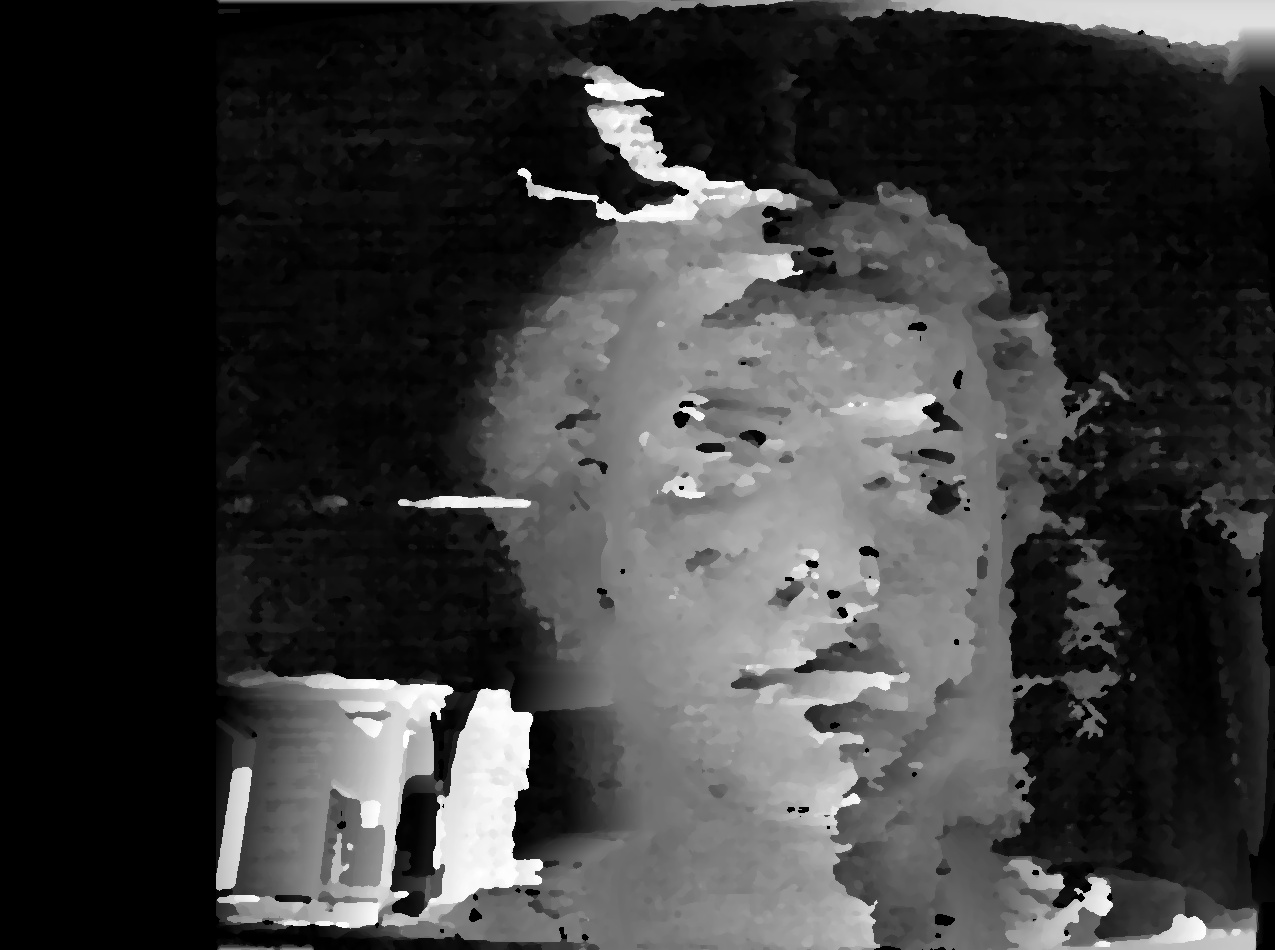
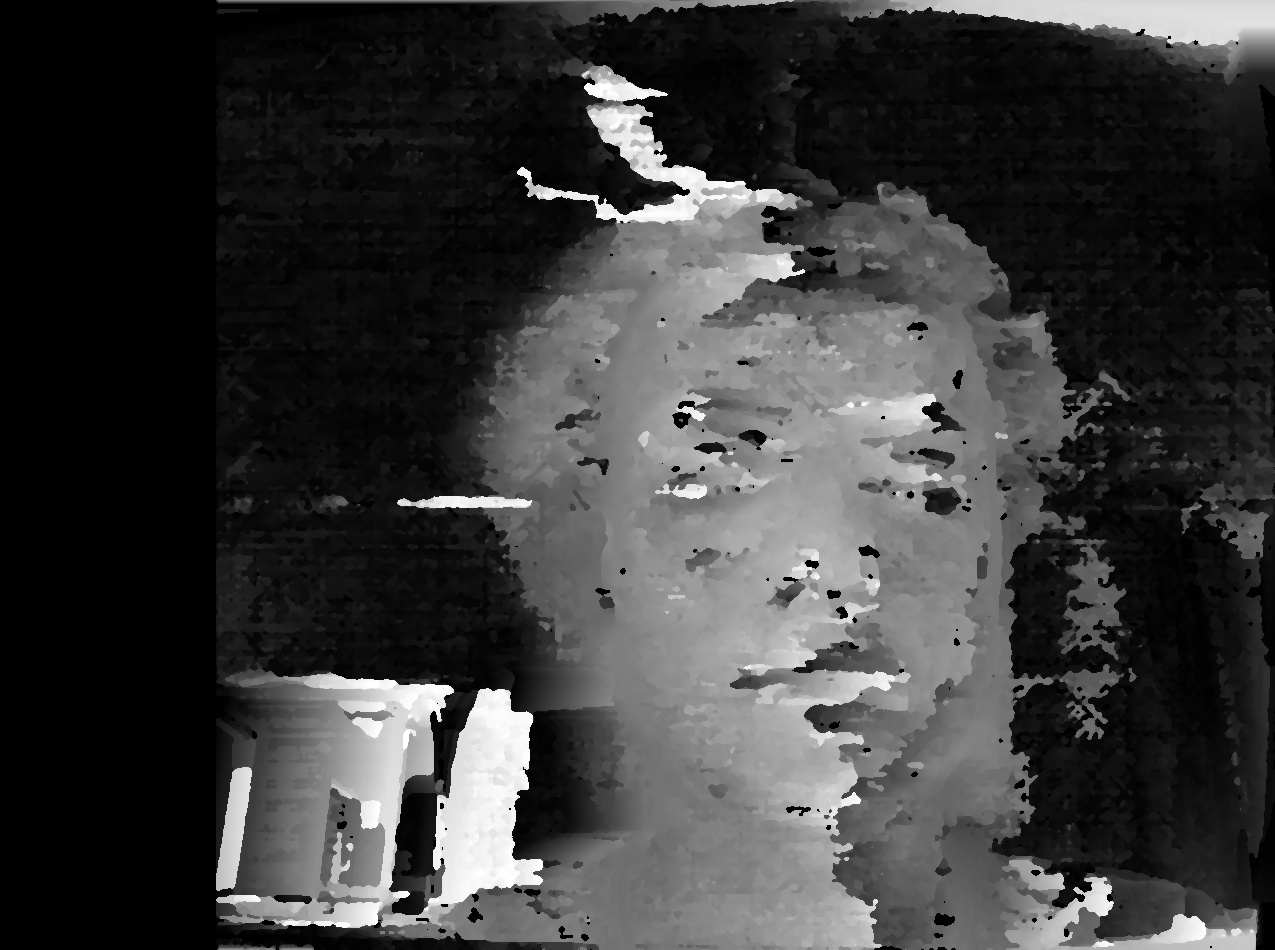
added eye landmarks and wrote distance on image

diff --git a/EyesDetection.py b/EyesDetection.py
@@ -1,0 +1,62 @@
+import mediapipe as mp
+import cv2 as cv
+
+# https://raw.githubusercontent.com/google/mediapipe/a908d668c730da128dfa8d9f6bd25d519d006692/mediapipe/modules/face_geometry/data/canonical_face_model_uv_visualization.png
+rightEyeIDLandmarks = [398, 384, 385, 386, 387, 388, 466, 763, 249, 390, 373, 374, 380, 381, 382, 362]
+leftEyeIDLandmarks = [33, 246, 161, 160, 159, 158, 157, 173, 133, 155, 154, 153, 145, 144, 163, 7]
+
+rightEyePixelLEFT = []
+leftEyePixelLEFT = []
+
+rightEyePixelRIGHT = []
+leftEyePixelRIGHT = []
+
+def eyesDetection(img):
+    
+    imgL = img[:, :int(len(img[0])/2)]
+    imgR = img[:, int(len(img[0])/2):]
+
+    # LEFT IMAGE
+    ih, iw, ic = imgL.shape
+    print(imgL.shape)
+    faceMeshSolution = mp.solutions.face_mesh
+    faceMesh = faceMeshSolution.FaceMesh(max_num_faces=1) # 2 faces because of 2 cameras..
+    results = faceMesh.process(imgL)
+
+    if results.multi_face_landmarks:
+        for faceLandmarks in results.multi_face_landmarks:
+            for id, landmark in enumerate(faceLandmarks.landmark):
+
+                if id in rightEyeIDLandmarks:
+                    x, y = int(landmark.x * iw), int(landmark.y * ih)
+                    rightEyePixelLEFT.append((x, y))
+                    cv.circle(imgL, (x, y), radius=1, color=(255, 255, 255), thickness=3)
+
+
+                if id in leftEyeIDLandmarks:
+                    x, y= int(landmark.x * iw), int(landmark.y * ih)
+                    leftEyePixelLEFT.append((x, y))
+                    cv.circle(imgL, (x, y), radius=1, color=(255, 255, 255), thickness=3)
+
+    # LEFT IMAGE
+    ih, iw, ic = imgR.shape
+    faceMeshSolution = mp.solutions.face_mesh
+    faceMesh = faceMeshSolution.FaceMesh(max_num_faces=1) # 2 faces because of 2 cameras..
+    results = faceMesh.process(imgR)
+
+    if results.multi_face_landmarks:
+        for faceLandmarks in results.multi_face_landmarks:
+            for id, landmark in enumerate(faceLandmarks.landmark):
+
+                if id in rightEyeIDLandmarks:
+                    x, y = int(landmark.x * iw), int(landmark.y * ih)
+                    rightEyePixelRIGHT.append((x, y))
+                    cv.circle(imgR, (x, y), radius=1, color=(255, 255, 255), thickness=3)
+
+
+                if id in leftEyeIDLandmarks:
+                    x, y= int(landmark.x * iw), int(landmark.y * ih)
+                    leftEyePixelRIGHT.append((x, y))
+                    cv.circle(imgR, (x, y), radius=1, color=(255, 255, 255), thickness=3)
+
+    return leftEyePixelLEFT, rightEyePixelLEFT, leftEyePixelRIGHT, rightEyePixelRIGHT

diff --git a/Depth.py b/Depth.py
@@ -2,7 +2,7 @@ import numpy as np
 import cv2 as cv
 
 
-def CalculateDisparity(img, intrinsicL,cameraMatrixL, intrinsicR, cameraMatrixR, distL, distR):
+def CalculateDisparity(img, intrinsicL, cameraMatrixL, intrinsicR, cameraMatrixR, distL, distR, leftEyePixels, rightEyePixels):
     # imgName = "./StereoImages/image" + str(fileNumber) + ".png"
 
 
@@ -15,6 +15,15 @@ def CalculateDisparity(img, intrinsicL,cameraMatrixL, intrinsicR, cameraMatrixR,
 
     imgRres = cv.undistort(imgR, cameraMatrixR, distR, None, intrinsicR)
     cv.imwrite("./result/undistortedR.jpg",imgRres)
+
+    # if len(imgL.shape) > 2:
+    #     col, row = imgLres.shape[:2]
+    # else:
+    #     col, row = imgLres.shape
+
+    # imgL_downSampled = cv.resize(imgLres, dsize=(row // 2, col // 2))
+    # imgR_downSampled = cv.resize(imgRres, dsize=(row //2, col // 2))
+
 
     # laplacianL = cv.Laplacian(imgLres,cv.CV_64F)
     # laplacianR = cv.Laplacian(imgRres,cv.CV_64F)
@@ -66,11 +75,33 @@ def CalculateDisparity(img, intrinsicL,cameraMatrixL, intrinsicR, cameraMatrixR,
     disparity = stereo.compute(imgLres, imgRres)
     # disparity = stereo.compute(grayL, grayR)
     # cv.imwrite("./result/disparity.jpg", disparity)
-    normalized = cv.normalize(disparity, None,
-                              0, 255, norm_type=cv.NORM_MINMAX)
     # cv.imwrite("./result/normalized.jpg", normalized)
+    normalized = cv.normalize(disparity, None,
+                              1, 255, norm_type=cv.NORM_MINMAX)
     normalized = np.uint8(normalized)
+    
+    f = cameraMatrixL[1, 1]
+    print(f)
+    depth = 62 * f / normalized
+    #leftEye
+    sumLeft = 0
+    for pixelCoord in leftEyePixels:
+        sumLeft += depth[pixelCoord[0]][pixelCoord[1]]
+    
+    #rightEye
+    sumRight = 0
+    for pixelCoord in leftEyePixels:
+        sumRight += depth[pixelCoord[0]][pixelCoord[1]]
+
+    distLeftEye = sumLeft / len(leftEyePixels)
+    distRightEye = sumRight / len(rightEyePixels)
+    font = cv.FONT_HERSHEY_SIMPLEX
+
+    cv.putText(img, 'left eye : ' + str(round(distLeftEye * 0.1, 3)) + " cm", (10,450), font, 1, (0, 255, 0), 2, cv.LINE_AA)
+    cv.putText(img, 'right eye : ' + str(round(distRightEye * 0.1, 3)) + " cm", (400,450), font, 1, (0, 255, 0), 2, cv.LINE_AA)
+    cv.imshow("img", img)
+    cv.waitKey(0)
     cv.imwrite("./result/depth.jpg", normalized)
-    blur = cv.medianBlur(normalized,7)
+    blur = cv.medianBlur(normalized, 5)
     cv.imwrite("./result/blur.jpg", blur)
     return blur

diff --git a/Calibration.py b/Calibration.py
@@ -21,11 +21,11 @@ def CalibrateCamera():
     imgPtsR = []
 
     # World coordinates for 3D points
-    coord = np.zeros((cbSize[0]*cbSize[1], 3), np.float32)
+    coord = np.zeros((cbSize[0] * cbSize[1], 3), np.float32)
     coord[:, :2] = np.mgrid[0:cbSize[0], 0:cbSize[1]].T.reshape(-1, 2)
 
-    for i,chessBoard in enumerate(stereoChessboards):
-        img = cv.imread(chessBoard,3)
+    for i, chessBoard in enumerate(stereoChessboards):
+        img = cv.imread(chessBoard, 3)
 
         cropped = ImagePreparation(img)
 
@@ -57,8 +57,8 @@ def CalibrateCamera():
         cv.imwrite("./ChessboardCorners/ChessboardCorners"+str(i)+".jpg", cv.hconcat([imgL, imgR]))
 
     # Calculate intrisic  matrices
-    heightL,widthL,channelsL = imgL.shape
-    sizeL = (widthL,heightL)
+    heightL, widthL, channelsL = imgL.shape
+    sizeL = (widthL, heightL)
     retval, cameraMatrixL, distL, rvecs, tvecs = cv.calibrateCamera(
         objPtsL, imgPtsL, sizeL, None, None)
     intrinsicL, roi_L = cv.getOptimalNewCameraMatrix(
@@ -82,8 +82,8 @@ def CalibrateCamera():
     retStereo, intrinsicL, distL, intrinsicR, distR, rot, trans, essentialMatrix, fundamentalMatrix = cv.stereoCalibrate(
         objPtsL, imgPtsL, imgPtsR, intrinsicL, distL, intrinsicR, distR, sizeL, criteria_stereo, flags)
 
-    CalibrationValidation(intrinsicL, intrinsicR, rot,
-                          trans, essentialMatrix, fundamentalMatrix)
+    # CalibrationValidation(intrinsicL, intrinsicR, rot,
+    #                       trans, essentialMatrix, fundamentalMatrix)
     # print("retval:\n", retStereo)
     # print("\nRight camera intrinsic matrix:\n", intrinsicR)
     # print("\nLeft camera intrinsic matrix:\n", intrinsicL)
@@ -94,4 +94,4 @@ def CalibrateCamera():
     # print("\nDistorsion left:\n", distL)
     # print("\nDistorsion right:\n", distR)
 
-    return fundamentalMatrix, intrinsicL,cameraMatrixL, intrinsicR, cameraMatrixR, distL, distR
+    return fundamentalMatrix, intrinsicL, cameraMatrixL, intrinsicR, cameraMatrixR, distL, distR

diff --git a/Matching.py b/Matching.py
@@ -25,18 +25,30 @@ def Matching(F, fileNumber):
     imgkpR = cv.drawKeypoints(imgR, kpR, 0, (0, 0, 255), None)
     cv.imwrite("./result/keypoints.jpg", cv.hconcat([imgkpL, imgkpR]))
 
-    # We match key points together
+    # # We match key points together
     bf = cv.BFMatcher()
     matches = bf.knnMatch(desL, desR, k=2)
 
     good = []
 
     for m, n in matches:
-        if m.distance < 0.45*n.distance:
+        if m.distance < 0.6 * n.distance:
             good.append([m])
 
     drawMatches = cv.drawMatchesKnn(imgL, kpL, imgR, kpR, good, None, flags=2)
     cv.imwrite("./result/keypoints.jpg", drawMatches)
+
+    # matcher = cv.DescriptorMatcher_create(cv.DescriptorMatcher_FLANNBASED)
+    # knn_matches = matcher.knnMatch(desL, desR, 2)
+    # ratio_thresh = 0.5
+    # good = []
+    # for m,n in knn_matches:
+    #     if m.distance < ratio_thresh * n.distance:
+    #         good.append(m)
+
+    # img_matches = np.empty((max(imgL.shape[0], imgR.shape[0]), imgL.shape[1]+imgR.shape[1], 3), dtype=np.uint8)
+    # drawMatches = cv.drawMatches(imgL, kpL, imgR, kpR, good, img_matches, flags=cv.DrawMatchesFlags_NOT_DRAW_SINGLE_POINTS)
+    # cv.imwrite("./result/keypoints.jpg", drawMatches)
 
     ptsR = []
     ptsL = []
@@ -57,7 +69,7 @@ def Matching(F, fileNumber):
         np.array(ptsR).reshape(-1, 1, 2), 2, F)
     lines2 = lines2.reshape(-1, 3)
 
-    MatchingValidation(ptsR, ptsL, lines1, lines2, F)
+   # MatchingValidation(ptsR, ptsL, lines1, lines2, F)
 
     epilines, original = drawlines(cv.cvtColor(imgL, cv.COLOR_BGR2GRAY), cv.cvtColor(
         imgR, cv.COLOR_BGR2GRAY), lines1, np.int32(ptsL), np.int32(ptsR))

diff --git a/Main.py b/Main.py
@@ -3,26 +3,30 @@ from Matching import Matching
 from Depth import CalculateDisparity
 from RealTime import realTimeCapture
 from imagePreparation import ImagePreparation
+from EyesDetection import eyesDetection
 import cv2 as cv
 
 
 import argparse
 
-parser = argparse.ArgumentParser(description='A test program.')
+parser = argparse.ArgumentParser(description='Reconstruction 3D.')
 
 parser.add_argument("-f", "--file_number",
                     help="Prints the supplied argument.", type=int)
 
 if __name__ == "__main__":
     fundamentalMatrix, intrinsicL,cameraMatrixL, intrinsicR, cameraMatrixR, distL, distR = CalibrateCamera()
-    # imgG, imgD, matches, = Matching(
-    #     fundamental, parser.parse_args().file_number)
+    imgG, imgD, matches, = Matching(
+        fundamentalMatrix, parser.parse_args().file_number)
 
     imgName = "./StereoImages/Center38cm.png"
     img = cv.imread(imgName, 3)
-    cv.imwrite("./result/original.jpg", img)
+
+    # cv.imwrite("./result/original.jpg", img)
     cropped = ImagePreparation(img)
-    CalculateDisparity(cropped, intrinsicL,cameraMatrixL, intrinsicR, cameraMatrixR, distL, distR)
+    img_landmarks = cropped
+    leftEyePixelsLEFT, rightEyePixelsLEFT, leftEyePixelsRIGHT, rightEyePixelsRIGHT = eyesDetection(img_landmarks)
+    CalculateDisparity(cropped, intrinsicL, cameraMatrixL, intrinsicR, cameraMatrixR, distL, distR, leftEyePixelsLEFT, rightEyePixelsLEFT)
     
     # realTimeCapture(intrinsicL, intrinksicR, distL, distR)
 

diff --git a/imagePreparation.py b/imagePreparation.py
@@ -2,11 +2,11 @@ import cv2 as cv
 import numpy as np
 
 def ImagePreparation(img):
-  gray = cv.cvtColor(img,cv.COLOR_BGR2GRAY)
-  _,thresh = cv.threshold(gray,1,255,cv.THRESH_BINARY)
-  contours,hierarchy = cv.findContours(thresh,cv.RETR_EXTERNAL,cv.CHAIN_APPROX_SIMPLE)
+  gray = cv.cvtColor(img, cv.COLOR_BGR2GRAY)
+  _, thresh = cv.threshold(gray, 0, 255, cv.THRESH_BINARY)
+  contours, hierarchy = cv.findContours(thresh, cv.RETR_EXTERNAL, cv.CHAIN_APPROX_SIMPLE)
   cnt = contours[0]
-  x,y,w,h = cv.boundingRect(cnt)
-  cropped = img[y+5:y+h-5,x+5:x+w-5]
+  x, y, w, h = cv.boundingRect(cnt)
+  cropped = img[y + 5 : y + h - 5, x + 5 : x + w - 5]
   cv.imwrite('result/cropped.png',cropped)
   return cropped
